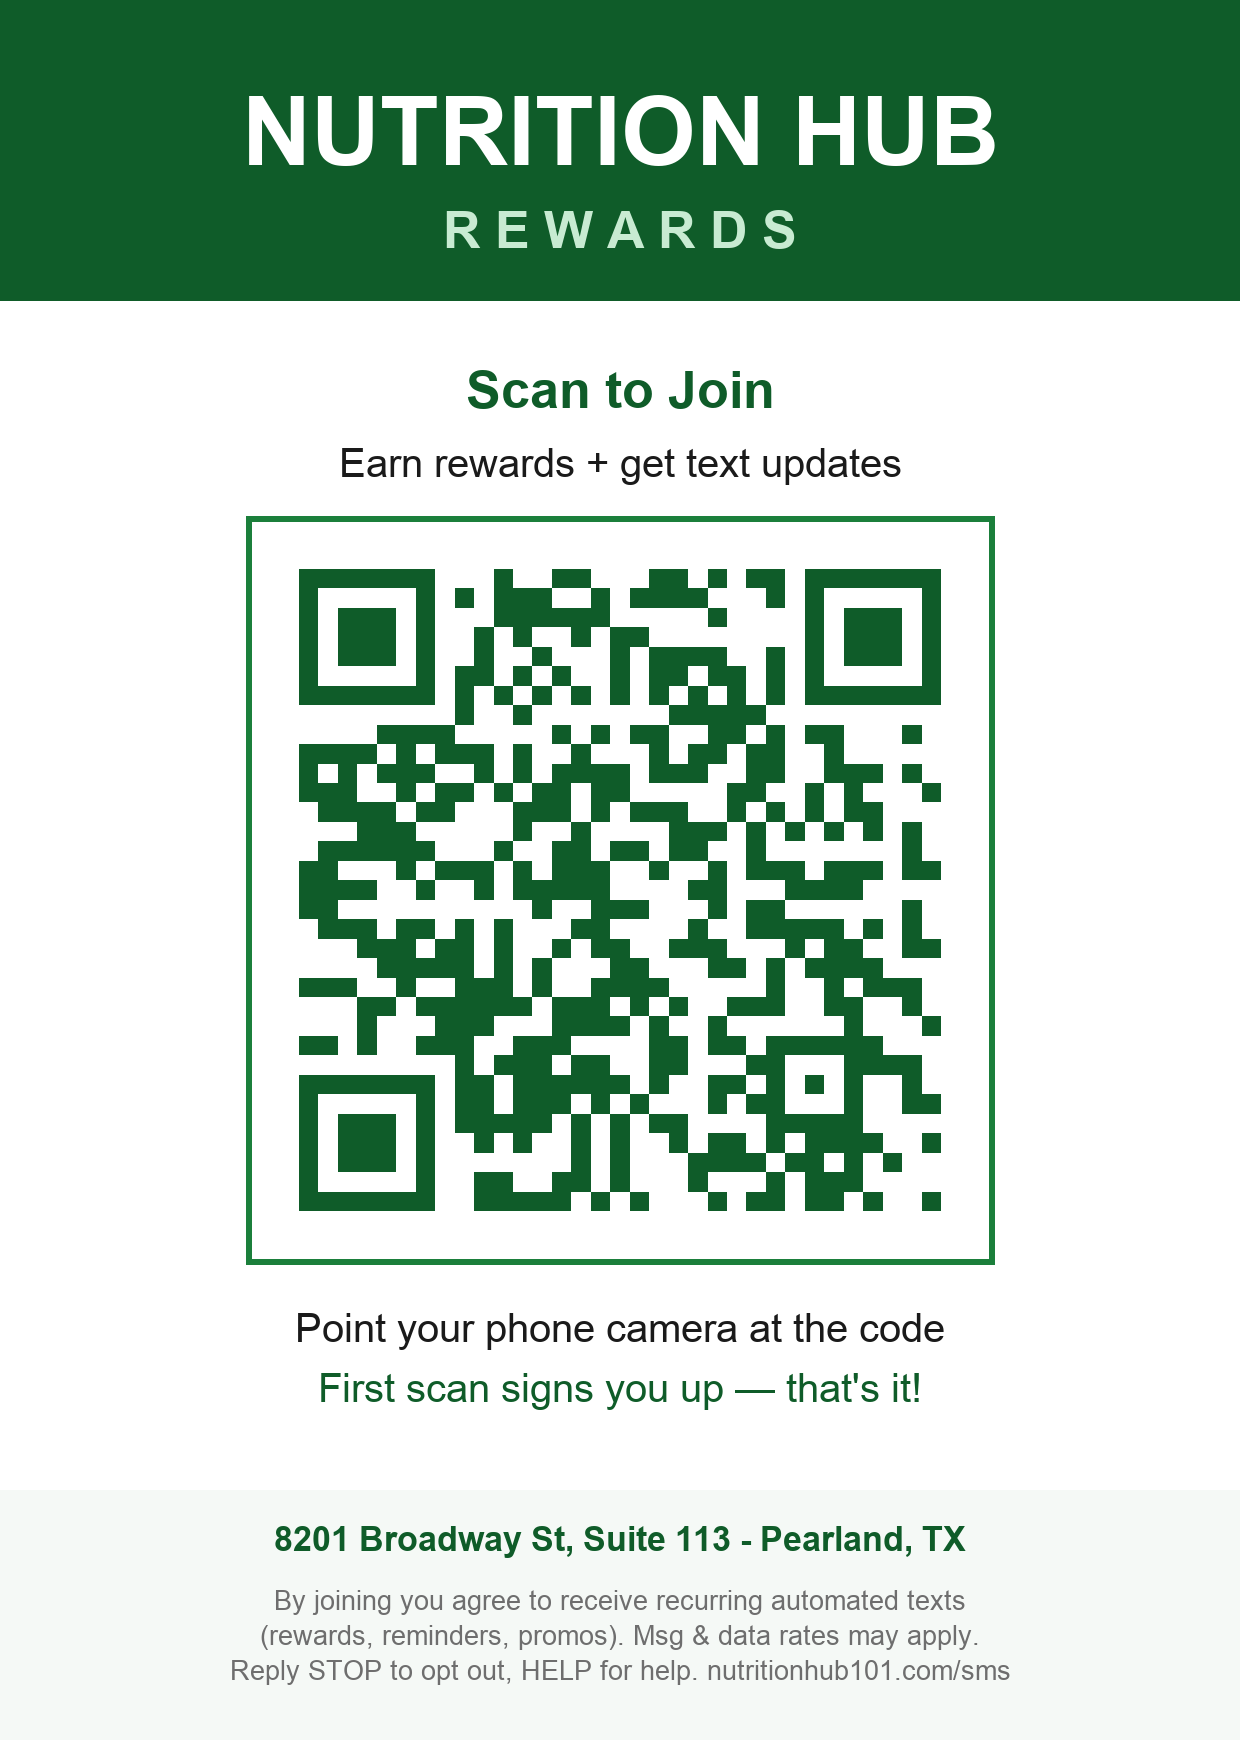
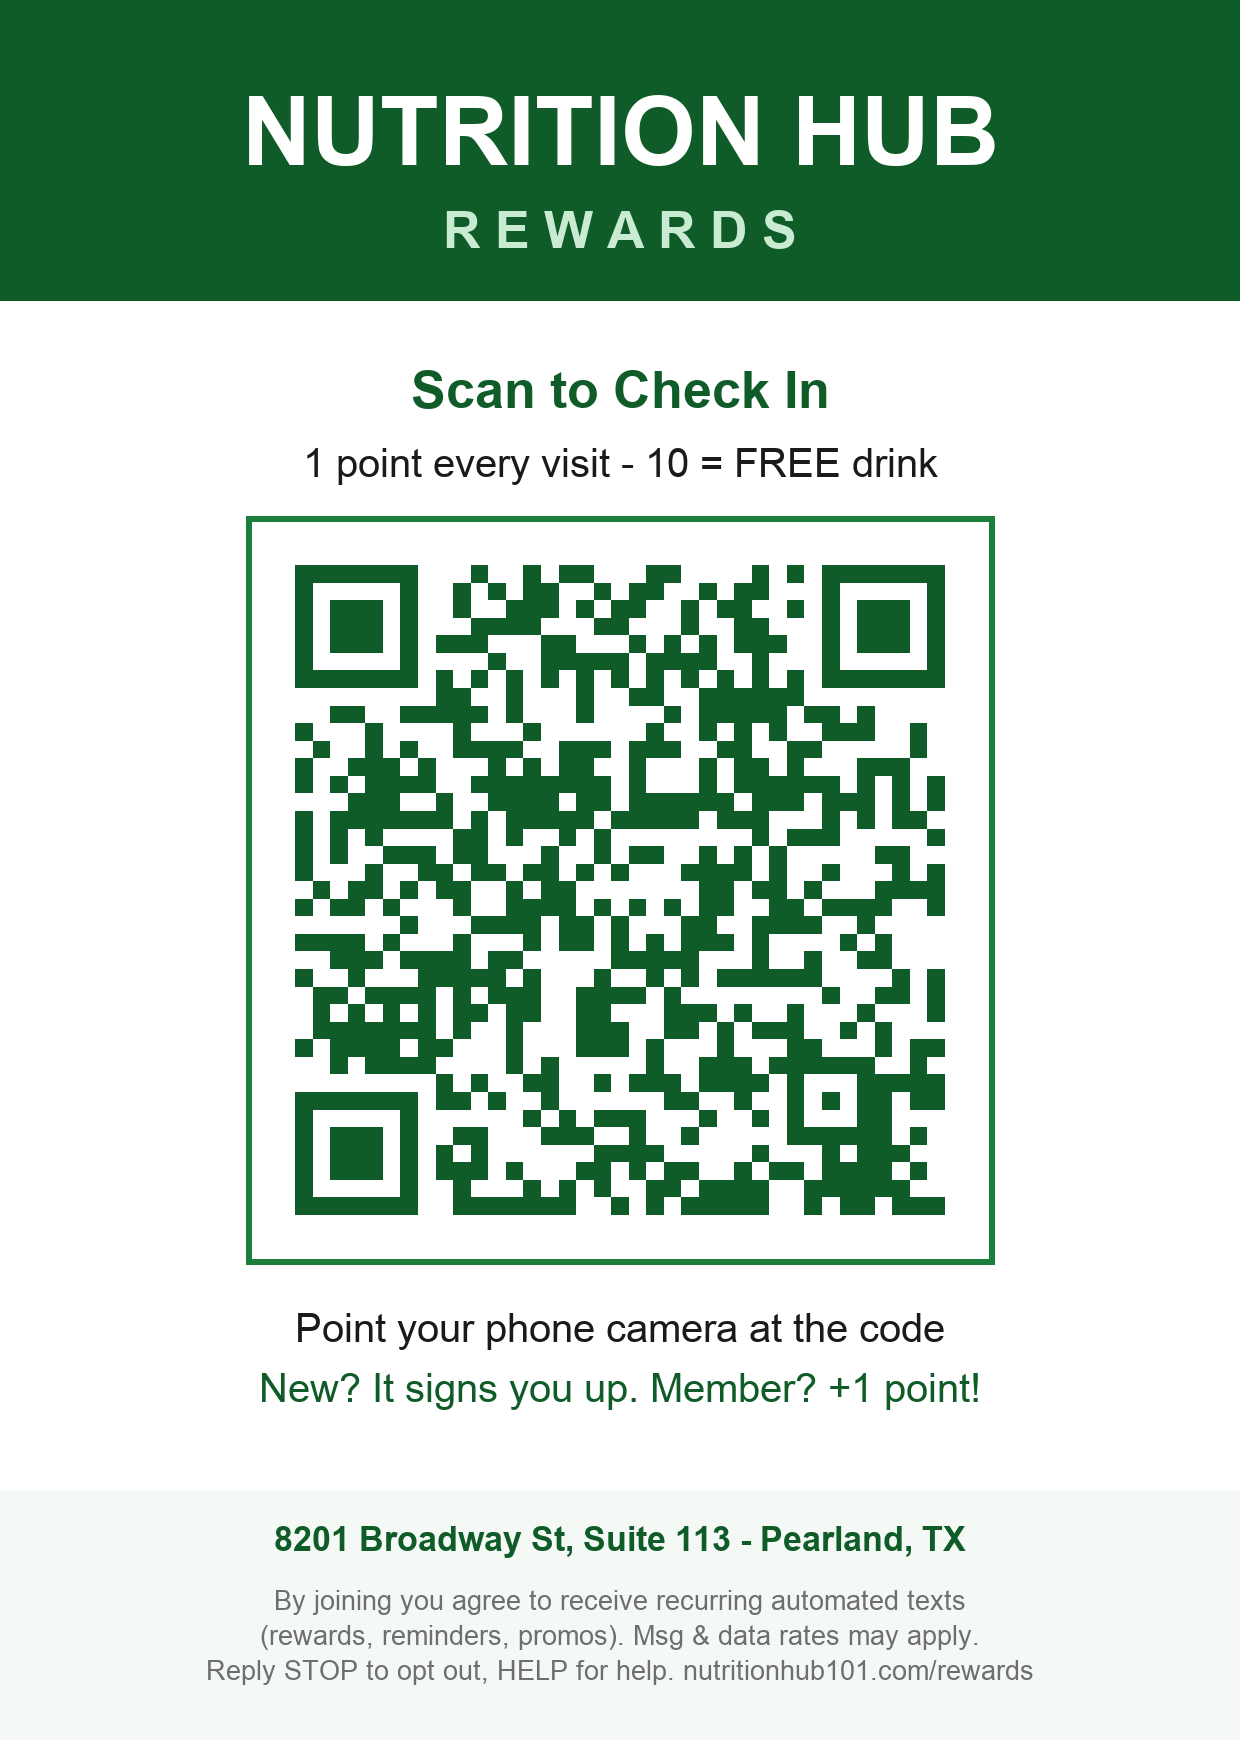
Rewards check-in page + repoint QR to /rewards
- nutritionhub101.com/rewards: phone check-in (+1 pt/day), live balance +
  progress to free drink, staff-PIN redeem at 10 pts, inline join+consent for
  new customers. Calls order.nutritionhub101.com /api/points-checkin,/api/redeem,
  /api/sms-optin (CORS). Server endpoints tested E2E (cap holds vs rapid rescans;
  redeem gated by staff PIN 0113).
- QR + counter card now point to /rewards ('Scan to Check In').
- (server.js changes live on VPS, gitignored — hold the GHL token.)

diff --git a/rewards/index.html b/rewards/index.html
@@ -1,0 +1,219 @@
+<!DOCTYPE html>
+<html lang="en">
+<head>
+<meta charset="UTF-8">
+<meta name="viewport" content="width=device-width, initial-scale=1.0">
+<title>Nutrition Hub Rewards — Check In</title>
+<meta name="robots" content="noindex">
+<style>
+  * { box-sizing: border-box; margin: 0; padding: 0; -webkit-tap-highlight-color: transparent; }
+  body {
+    font-family: -apple-system, BlinkMacSystemFont, 'Segoe UI', Roboto, sans-serif;
+    background: #f4f7f5; color: #1a1a1a; min-height: 100vh;
+    display: flex; justify-content: center; align-items: flex-start; padding: 18px;
+  }
+  .card { background: #fff; border-radius: 20px; box-shadow: 0 6px 30px rgba(0,0,0,.09);
+    max-width: 440px; width: 100%; overflow: hidden; margin-top: 12px; }
+  .header { background: linear-gradient(135deg,#1b7f3b,#0f5c29); color:#fff; padding: 28px 24px; text-align:center; }
+  .header h1 { font-size: 22px; letter-spacing:.5px; }
+  .header p { font-size: 13px; opacity:.9; margin-top:4px; letter-spacing:3px; }
+  .body { padding: 26px 22px 30px; }
+  label { display:block; font-size:13px; font-weight:600; color:#555; margin-bottom:7px; }
+  input[type=tel], input[type=text] { width:100%; padding:15px 16px; border:1.5px solid #dcdcdc;
+    border-radius:12px; font-size:17px; transition:border-color .15s; }
+  input:focus { outline:none; border-color:#1b7f3b; box-shadow:0 0 0 3px rgba(27,127,59,.12); }
+  .btn { width:100%; padding:16px; background:#0f5c29; color:#fff; border:none; border-radius:12px;
+    font-size:17px; font-weight:700; cursor:pointer; margin-top:16px; transition:background .15s; }
+  .btn:active { background:#0b4a21; }
+  .btn:disabled { background:#9bb3a3; cursor:default; }
+  .btn.secondary { background:#eef4f0; color:#0f5c29; }
+  .muted { font-size:12.5px; color:#888; line-height:1.5; }
+  .center { text-align:center; }
+  .hi { font-size:20px; font-weight:700; color:#0f5c29; margin-bottom:2px; }
+  .ptswrap { text-align:center; margin:18px 0 8px; }
+  .ptsnum { font-size:66px; font-weight:800; color:#0f5c29; line-height:1; }
+  .ptslabel { font-size:14px; color:#666; margin-top:4px; }
+  .bar { height:14px; background:#e8ede9; border-radius:8px; overflow:hidden; margin:18px 0 6px; }
+  .bar > div { height:100%; background:linear-gradient(90deg,#1b7f3b,#3bbf6a); border-radius:8px; transition:width .5s; }
+  .toast { border-radius:12px; padding:13px 15px; font-size:14.5px; font-weight:600; margin:14px 0; text-align:center; }
+  .toast.good { background:#e7f7ec; color:#0f5c29; }
+  .toast.info { background:#eef2f7; color:#41506a; }
+  .reward { background:linear-gradient(135deg,#ffb703,#fb8500); color:#fff; border-radius:16px;
+    padding:20px; text-align:center; margin:18px 0; }
+  .reward .big { font-size:22px; font-weight:800; }
+  .reward .sub { font-size:13px; opacity:.95; margin-top:4px; }
+  .staffbox { background:#fff7e6; border:1.5px dashed #f0a500; border-radius:12px; padding:16px; margin-top:12px; }
+  .staffbox label { color:#8a6d00; }
+  .consent { display:flex; gap:10px; align-items:flex-start; margin:16px 0 4px; }
+  .consent input { width:20px; height:20px; margin-top:2px; flex-shrink:0; }
+  .consent label { font-size:12px; color:#666; line-height:1.45; font-weight:400; }
+  a { color:#0f5c29; }
+  .hide { display:none; }
+  .err { color:#c0392b; font-size:13px; margin-top:8px; text-align:center; min-height:16px; }
+</style>
+</head>
+<body>
+<div class="card">
+  <div class="header">
+    <h1>Nutrition Hub</h1>
+    <p>R E W A R D S</p>
+  </div>
+  <div class="body">
+
+    <!-- STEP 1: phone -->
+    <div id="s-phone">
+      <label for="phone">Enter your phone to check in</label>
+      <input type="tel" id="phone" inputmode="tel" autocomplete="tel" placeholder="(281) 555-1234">
+      <button class="btn" id="goBtn">Check In &amp; See Points</button>
+      <div class="err" id="phoneErr"></div>
+      <p class="muted center" style="margin-top:14px">1 point every visit &bull; 10 points = a FREE drink 🥤</p>
+    </div>
+
+    <!-- STEP 2: balance -->
+    <div id="s-balance" class="hide">
+      <div class="center hi" id="hiName">Hi!</div>
+      <div id="awardToast"></div>
+      <div class="ptswrap">
+        <div class="ptsnum" id="ptsNum">0</div>
+        <div class="ptslabel" id="ptsLabel">points</div>
+      </div>
+      <div class="bar"><div id="barFill" style="width:0%"></div></div>
+      <p class="muted center" id="toNextTxt"></p>
+
+      <div id="rewardBlock" class="hide">
+        <div class="reward">
+          <div class="big">🎉 FREE DRINK READY!</div>
+          <div class="sub">Show this screen to a team member</div>
+        </div>
+        <div class="staffbox">
+          <label for="pin">Staff: enter PIN to give the free drink</label>
+          <input type="tel" id="pin" inputmode="numeric" maxlength="6" placeholder="••••">
+          <button class="btn" id="redeemBtn" style="margin-top:12px">Confirm Free Drink</button>
+          <div class="err" id="redeemErr"></div>
+        </div>
+      </div>
+
+      <button class="btn secondary" id="doneBtn" style="margin-top:20px">Done</button>
+    </div>
+
+    <!-- STEP 3: join (new) -->
+    <div id="s-join" class="hide">
+      <div class="center hi">Welcome! 🎉</div>
+      <p class="muted center" style="margin:6px 0 18px">Looks like you're new — let's get you signed up. Your first visit counts!</p>
+      <label for="fname">First Name</label>
+      <input type="text" id="fname" autocomplete="given-name" placeholder="Your first name">
+      <div class="consent">
+        <input type="checkbox" id="consent">
+        <label for="consent">I agree to receive recurring automated marketing &amp; informational texts from Nutrition Hub (rewards, reminders, promos). Consent is not a condition of purchase. Msg freq varies. Msg &amp; data rates may apply. Reply STOP to cancel, HELP for help. See our <a href="https://nutritionhub101.com/privacy-policy" target="_blank">Privacy Policy</a> &amp; <a href="https://nutritionhub101.com/terms" target="_blank">Terms</a>.</label>
+      </div>
+      <button class="btn" id="joinBtn">Join &amp; Earn My First Point</button>
+      <div class="err" id="joinErr"></div>
+    </div>
+
+  </div>
+</div>
+
+<script>
+const API = 'https://order.nutritionhub101.com';
+const THRESHOLD = 10;
+let state = { phone:'', contactId:null };
+
+const $ = id => document.getElementById(id);
+function show(step){ ['s-phone','s-balance','s-join'].forEach(s => $(s).classList.toggle('hide', s!==step)); }
+function digits(s){ return (s||'').replace(/\D/g,''); }
+
+$('goBtn').addEventListener('click', checkIn);
+$('phone').addEventListener('keydown', e => { if(e.key==='Enter') checkIn(); });
+
+async function checkIn(){
+  const p = $('phone').value.trim();
+  $('phoneErr').textContent = '';
+  if (digits(p).length < 10){ $('phoneErr').textContent = 'Please enter a valid 10-digit phone number.'; return; }
+  state.phone = p;
+  const btn = $('goBtn'); btn.disabled = true; btn.textContent = 'Checking...';
+  try {
+    const r = await fetch(API+'/api/points-checkin', {
+      method:'POST', headers:{'Content-Type':'application/json'},
+      body: JSON.stringify({ phone: p })
+    });
+    const d = await r.json();
+    if (d.found === false){ show('s-join'); }
+    else { renderBalance(d); show('s-balance'); }
+  } catch(e){ $('phoneErr').textContent = 'Something went wrong. Please try again.'; }
+  finally { btn.disabled = false; btn.textContent = 'Check In & See Points'; }
+}
+
+function renderBalance(d){
+  state.contactId = d.contactId;
+  $('hiName').textContent = d.firstName ? ('Hi ' + d.firstName + '!') : 'Your Rewards';
+  const pts = d.points || 0;
+  $('ptsNum').textContent = pts;
+  $('ptsLabel').textContent = pts === 1 ? 'point' : 'points';
+  const pct = Math.min(100, Math.round((pts % THRESHOLD || (pts>=THRESHOLD?THRESHOLD:0)) / THRESHOLD * 100));
+  $('barFill').style.width = (pts>=THRESHOLD ? 100 : Math.min(100, pts/THRESHOLD*100)) + '%';
+  const toNext = (typeof d.toNext === 'number') ? d.toNext : Math.max(0, THRESHOLD - pts);
+
+  const at = $('awardToast');
+  if (d.awarded){ at.innerHTML = '<div class="toast good">✓ +1 point for checking in!</div>'; }
+  else if (d.alreadyToday){ at.innerHTML = '<div class="toast info">You already checked in today — see you next visit! 👋</div>'; }
+  else { at.innerHTML = ''; }
+
+  if (d.hasReward || pts >= THRESHOLD){
+    $('toNextTxt').textContent = 'You have enough for a free drink!';
+    $('rewardBlock').classList.remove('hide');
+  } else {
+    $('toNextTxt').textContent = toNext + (toNext===1?' point':' points') + ' until your FREE drink 🥤';
+    $('rewardBlock').classList.add('hide');
+  }
+}
+
+$('redeemBtn').addEventListener('click', async () => {
+  const pin = $('pin').value.trim();
+  $('redeemErr').textContent = '';
+  if (!pin){ $('redeemErr').textContent = 'Enter the staff PIN.'; return; }
+  const btn = $('redeemBtn'); btn.disabled = true; btn.textContent = 'Confirming...';
+  try {
+    const r = await fetch(API+'/api/redeem', {
+      method:'POST', headers:{'Content-Type':'application/json'},
+      body: JSON.stringify({ contactId: state.contactId, pin })
+    });
+    const d = await r.json();
+    if (d.success){
+      $('rewardBlock').innerHTML = '<div class="toast good" style="font-size:16px;padding:18px">🥤 Free drink redeemed — enjoy!</div>';
+      $('ptsNum').textContent = d.points;
+      $('ptsLabel').textContent = d.points === 1 ? 'point' : 'points';
+      $('barFill').style.width = Math.min(100, d.points/THRESHOLD*100) + '%';
+      $('toNextTxt').textContent = Math.max(0, THRESHOLD - d.points) + ' points until your next free drink 🥤';
+    } else {
+      $('redeemErr').textContent = d.error || 'Could not redeem. Check the PIN.';
+      btn.disabled = false; btn.textContent = 'Confirm Free Drink';
+    }
+  } catch(e){ $('redeemErr').textContent = 'Something went wrong. Try again.'; btn.disabled=false; btn.textContent='Confirm Free Drink'; }
+});
+
+$('joinBtn').addEventListener('click', async () => {
+  const fname = $('fname').value.trim();
+  $('joinErr').textContent = '';
+  if (!fname){ $('joinErr').textContent = 'Please enter your first name.'; return; }
+  if (!$('consent').checked){ $('joinErr').textContent = 'Please check the box to join our texts & rewards.'; return; }
+  const btn = $('joinBtn'); btn.disabled = true; btn.textContent = 'Signing you up...';
+  try {
+    const r = await fetch(API+'/api/sms-optin', {
+      method:'POST', headers:{'Content-Type':'application/json'},
+      body: JSON.stringify({ first_name: fname, phone: state.phone, sms_consent: true, source:'nutritionhub101.com/rewards' })
+    });
+    const d = await r.json();
+    if (d.success){
+      renderBalance({ found:true, contactId:d.contactId, firstName:fname, points:1, awarded:true, hasReward:false, toNext:THRESHOLD-1 });
+      show('s-balance');
+    } else { $('joinErr').textContent = d.error || 'Could not sign you up. Try again.'; btn.disabled=false; btn.textContent='Join & Earn My First Point'; }
+  } catch(e){ $('joinErr').textContent = 'Something went wrong. Try again.'; btn.disabled=false; btn.textContent='Join & Earn My First Point'; }
+});
+
+$('doneBtn').addEventListener('click', () => {
+  $('phone').value=''; $('pin') && ($('pin').value=''); state={phone:'',contactId:null};
+  $('rewardBlock').classList.add('hide'); show('s-phone');
+});
+</script>
+</body>
+</html>
